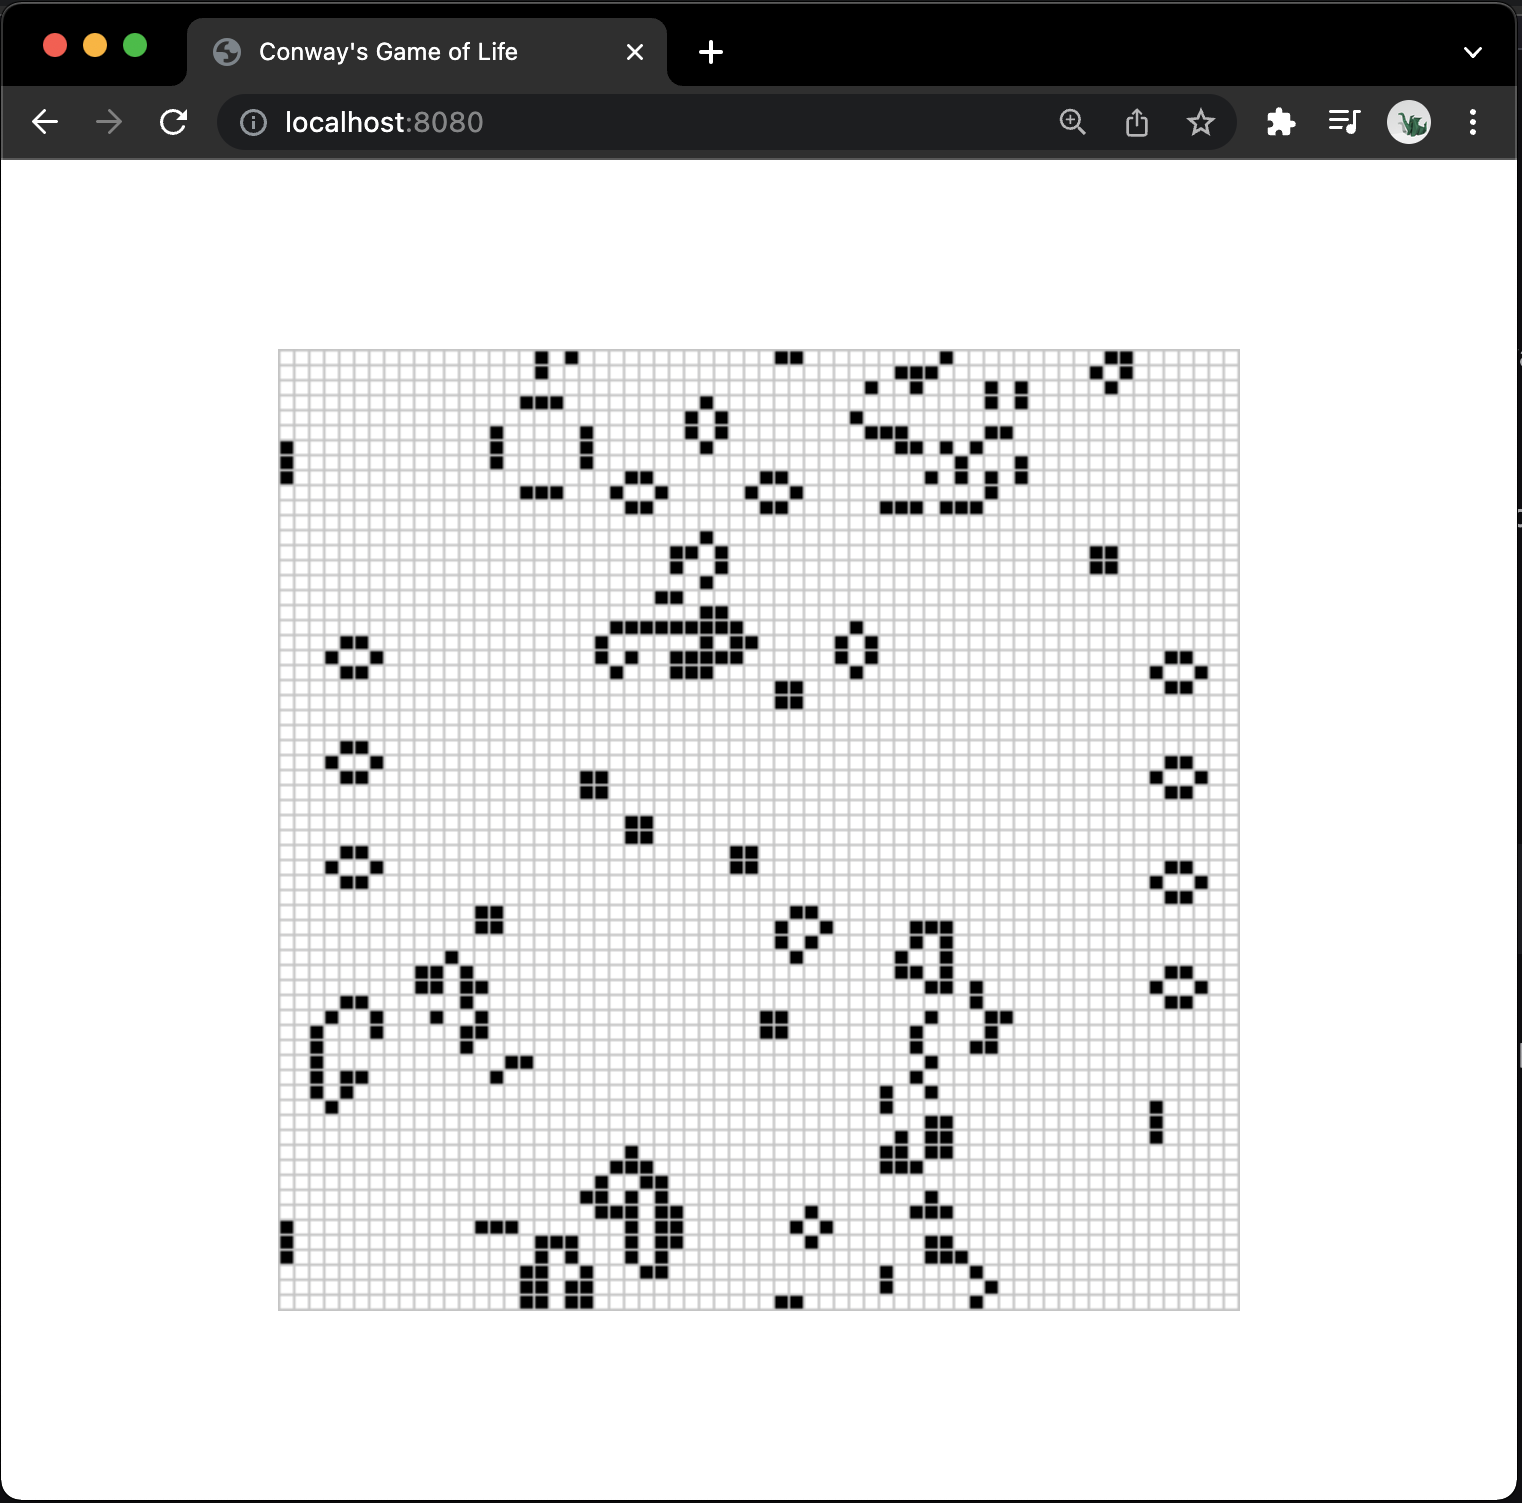
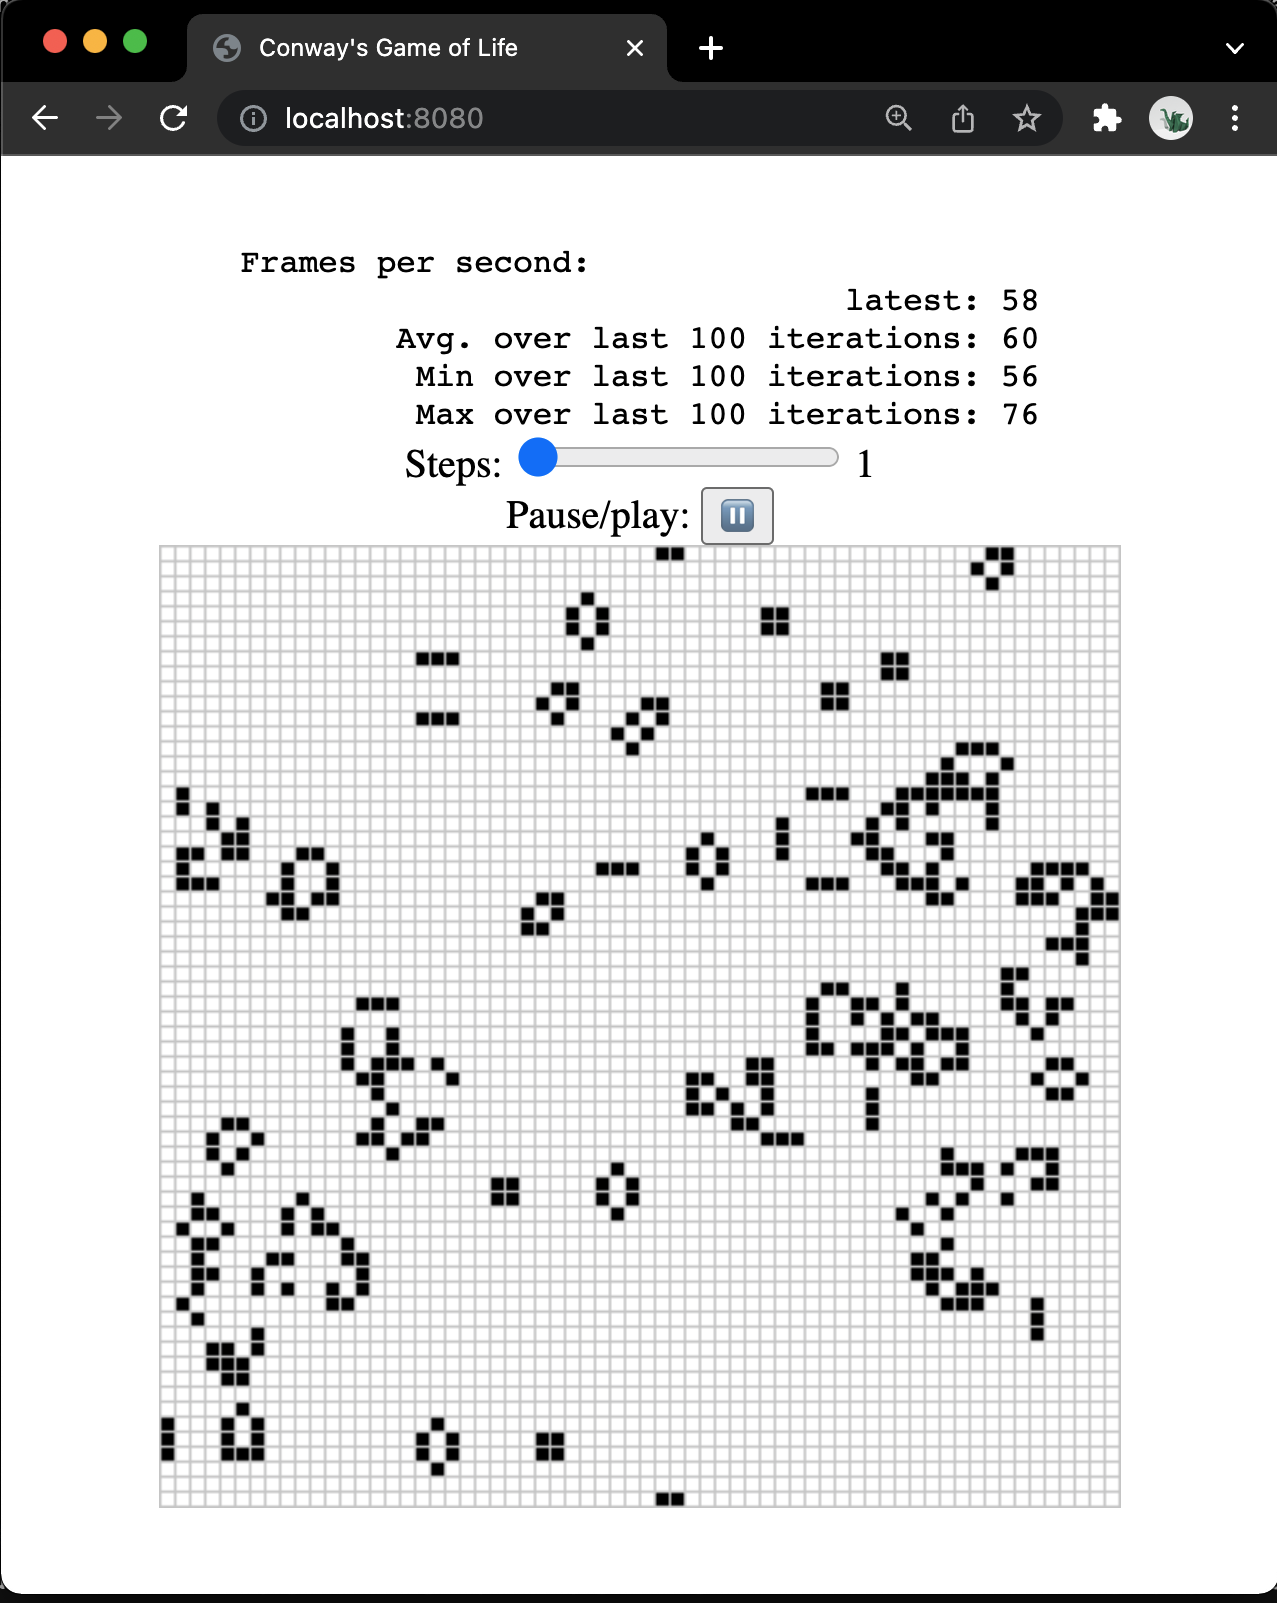
Monitoring FPS.

Changed region(s): [[0.1222, 0.153, 0.8857, 0.9488], [0.0, 0.0, 1.0, 1.0]]

diff --git a/www/index.js b/www/index.js
@@ -20,16 +20,60 @@ canvas.height = (CELL_SIZE + 1) * height + 1;
 
 const ctx = canvas.getContext("2d");
 
+let steps = document.getElementById("steps");
+
 let animationId = null;
 const playPauseButton = document.getElementById("play-pause");
 
+const fps = new class {
+    constructor() {
+        this.fps = document.getElementById("fps");
+        this.frames = [];
+        this.lastFrameTimeStamp = performance.now();
+    }
+
+    render() {
+        const now = performance.now();
+        const delta = now - this.lastFrameTimeStamp;
+        const fps = (1/delta) * 1000; // fps = fpms * millisecs in a second
+
+        this.frames.push(fps);
+        if(this.frames.length > 100) { // 100 capacity
+            this.frames.shift();
+        }
+
+        // statistics
+        let max = -Infinity;
+        let min = Infinity;
+        let sum = 0;
+        for(let i=0; i<this.frames.length; i++) {
+            sum += this.frames[i];
+            max = Math.max(this.frames[i], max);
+            min = Math.min(this.frames[i], min);
+        }
+        let mean = sum / this.frames.length;
+
+        this.fps.textContent = `
+        Frames per second: 
+                               latest: ${Math.round(fps)}
+        Avg. over last 100 iterations: ${Math.round(mean)}
+         Min over last 100 iterations: ${Math.round(min)}
+         Max over last 100 iterations: ${Math.round(max)}
+        `.trim();
+        this.lastFrameTimeStamp = performance.now();
+    }
+};
+
 const renderLoop = () => {
     //debugger;
+    fps.render();
 
     drawGrid();
     drawCells();
 
-    universe.tick();
+    for(let i=0; i<steps.value; i++) {
+        universe.tick();
+    }
 
     animationId = requestAnimationFrame(renderLoop);
 };

diff --git a/www/index.html b/www/index.html
@@ -15,11 +15,24 @@
         align-items: center;
         justify-content: center;
       }
+      #fps {
+        white-space: pre;
+        font-family: monospace;
+      }
     </style>
   </head>
   <body>
     <noscript>This page contains webassembly and javascript content, please enable javascript in your browser.</noscript>
-    <button id="play-pause"></button>
+    <div id="fps"></div>
+    <div>
+      <label for="steps">Steps: </label>
+      <input type="range" id="steps" name="steps" min="1" max="10" value="1" oninput="this.nextElementSibling.value = this.value">
+      <output>1</output>
+    </div>
+    <div>
+      <label for="play-pause">Pause/play: </label>
+      <button id="play-pause"></button>
+    </div>
     <canvas id="game-of-life-canvas"></canvas>
     <script src="./bootstrap.js"></script>
   </body>
